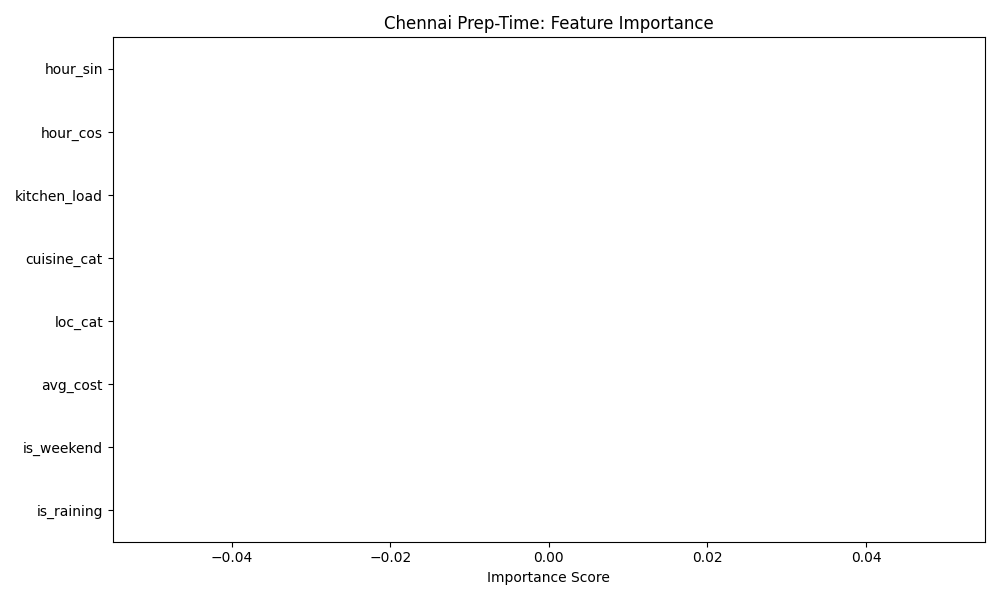
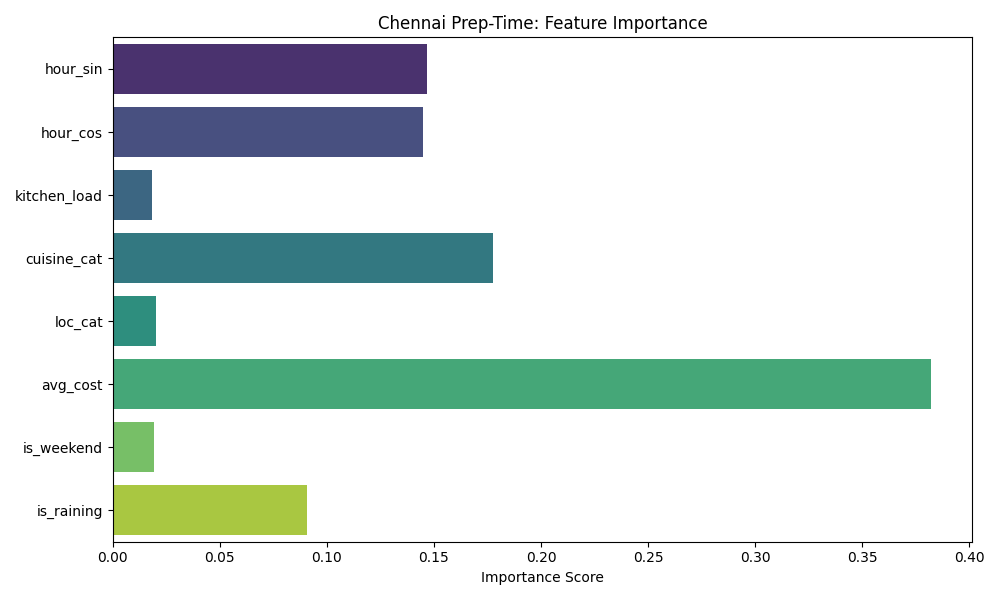
reached a end i guess

diff --git a/predict.py b/predict.py
@@ -1,0 +1,39 @@
+import pandas as pd
+import numpy as np
+import xgboost as xgb
+from datetime import datetime
+
+# Load the trained model
+model = xgb.XGBRegressor()
+model.load_model("chennai_prep_model.json")
+
+def get_manual_prediction():
+    print("\n--- 🍲 Chennai Prep-Time AI Predictor ---")
+    
+    # Input simulation (In a real app, these come from dropdowns)
+    avg_cost = float(input("Enter Restaurant Avg Cost (e.g., 600): "))
+    is_raining = int(input("Is it raining? (1 for Yes, 0 for No): "))
+    
+    # Current time features
+    now = datetime.now()
+    hour_sin = np.sin(2 * np.pi * now.hour / 24)
+    hour_cos = np.cos(2 * np.pi * now.hour / 24)
+    is_weekend = 1 if now.weekday() >= 5 else 0
+    
+    # Static mocks for current demo (Matching feature count: 8)
+    kitchen_load = 4  # Simulate a busy kitchen
+    cuisine_cat = 2   # Assume Biryani for demo
+    loc_cat = 5       # Assume Adyar for demo
+
+    features = pd.DataFrame([[
+        hour_sin, hour_cos, kitchen_load, 
+        cuisine_cat, loc_cat, avg_cost, 
+        is_weekend, is_raining
+    ]], columns=['hour_sin', 'hour_cos', 'kitchen_load', 'cuisine_cat', 
+                 'loc_cat', 'avg_cost', 'is_weekend', 'is_raining'])
+    
+    prediction = model.predict(features)[0]
+    print(f"\n✅ AI Estimate: {prediction:.2f} minutes")
+
+if __name__ == "__main__":
+    get_manual_prediction()

diff --git a/preprocess.py b/preprocess.py
@@ -14,12 +14,12 @@ class DataCleaner:
         return df
 
     # In preprocess.py, inside handle_outliers:
-def handle_outliers(self, df: pd.DataFrame) -> pd.DataFrame:
-    df['prep_time_actual'] = (df['pickup_time'] - df['order_time']).dt.total_seconds() / 60
+    def handle_outliers(self, df: pd.DataFrame) -> pd.DataFrame:
+        df['prep_time_actual'] = (df['pickup_time'] - df['order_time']).dt.total_seconds() / 60
     
-    # CRITICAL: Keep only orders between 2 and 90 minutes
-    df = df[(df['prep_time_actual'] > 2) & (df['prep_time_actual'] < 90)].copy()
+        # CRITICAL: Keep only orders between 2 and 90 minutes
+        df = df[(df['prep_time_actual'] > 2) & (df['prep_time_actual'] < 90)].copy()
     
-    # Debug print to check the average prep time
-    print(f"Average Prep Time in Dataset: {df['prep_time_actual'].mean():.2f} mins")
-    return df
+        # Debug print to check the average prep time
+        print(f"Average Prep Time in Dataset: {df['prep_time_actual'].mean():.2f} mins")
+        return df

diff --git a/model.py b/model.py
@@ -57,7 +57,7 @@ class PrepTimeModel:
         # Get importance scores
         importance = self.model.feature_importances_
         # Create plot
-        sns.barplot(x=importance, y=self.features, palette='viridis')
+        sns.barplot(x=importance, y=self.features, hue=self.features, palette='viridis', legend=False)
         plt.title('Chennai Prep-Time: Feature Importance')
         plt.xlabel('Importance Score')
         plt.tight_layout()
